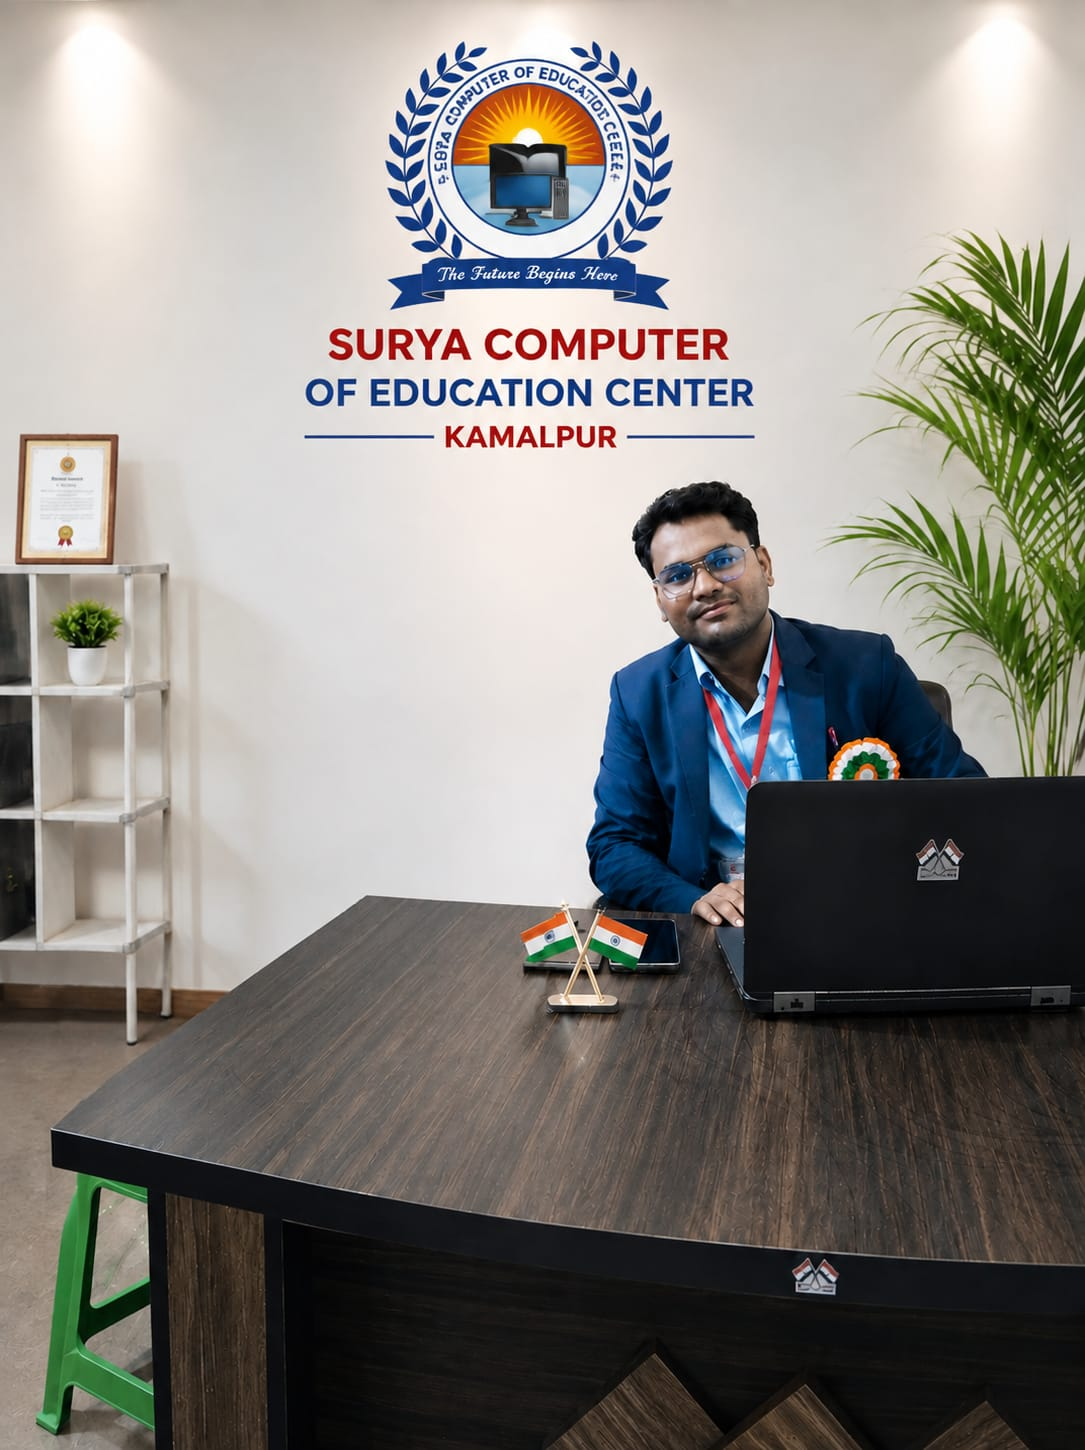
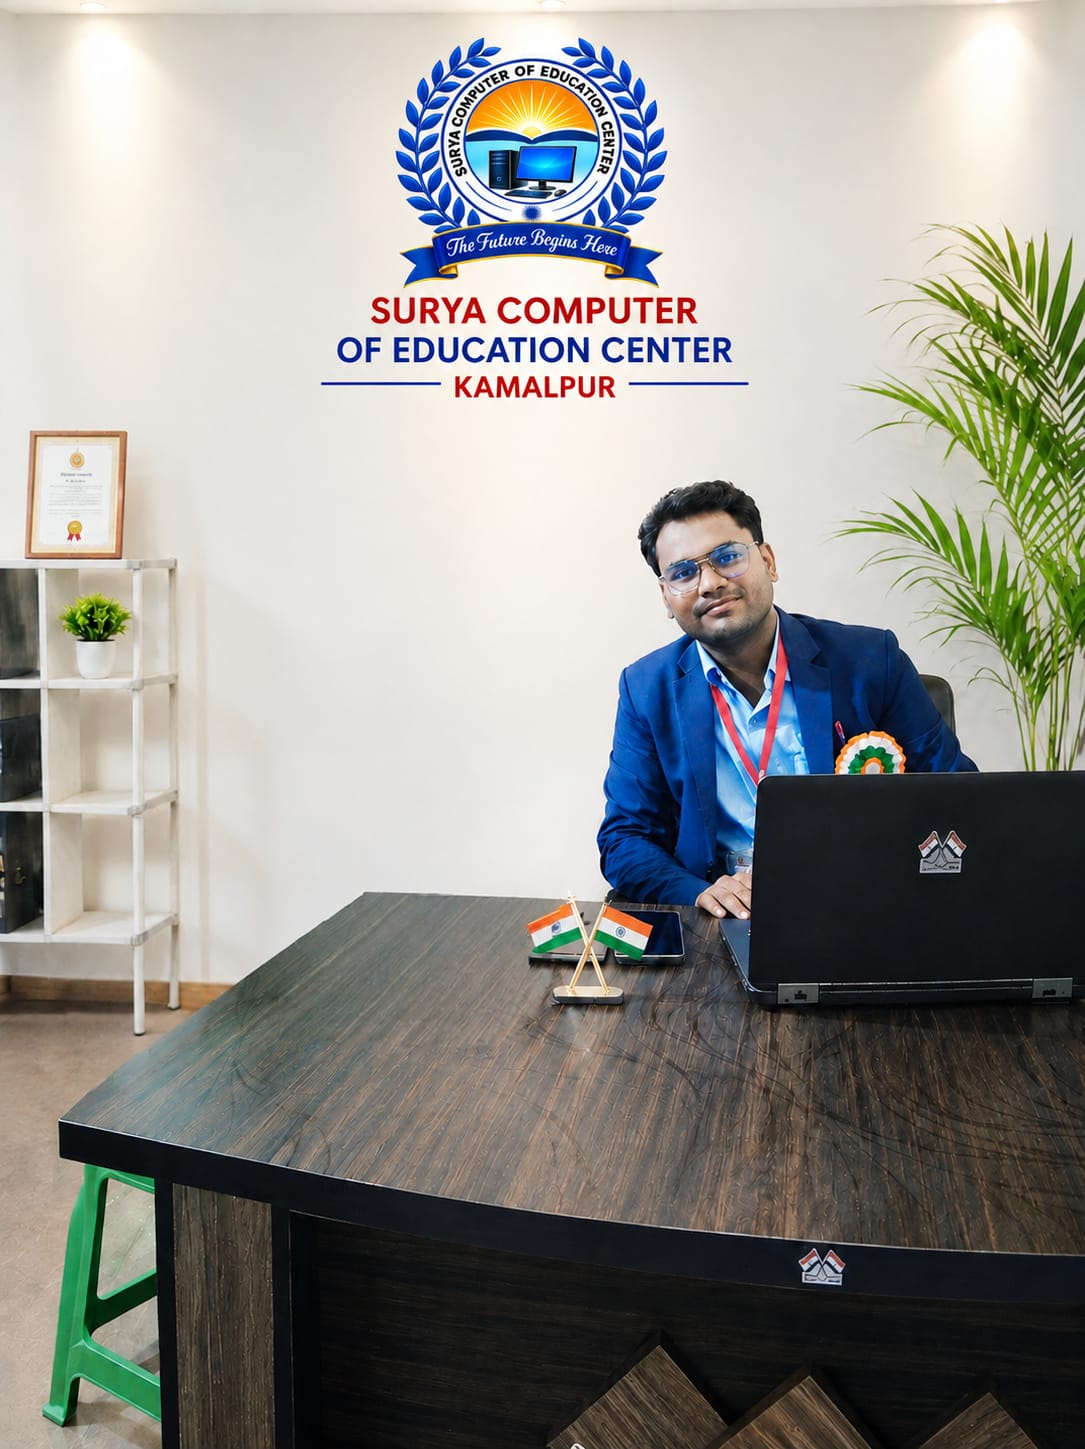
Update admin UI, project UI, and hero image

diff --git a/assets/css/project-ui.css b/assets/css/project-ui.css
@@ -54,3 +54,95 @@ footer a,.footer a{color:#fff!important}
 html[data-theme="dark"] .notice-box,html.dark-mode .notice-box,html.dark .notice-box,body.dark-mode .notice-box,body.dark .notice-box{background:#172033!important;color:#f8fafc!important}
 html[data-theme="dark"] .notice-box *,html.dark-mode .notice-box *,html.dark .notice-box *,body.dark-mode .notice-box *,body.dark .notice-box *{color:#f8fafc!important}
 html[data-theme="dark"] .top-bar a,html.dark-mode .top-bar a,html.dark .top-bar a,body.dark-mode .top-bar a,body.dark .top-bar a,html[data-theme="dark"] footer a,html.dark-mode footer a,html.dark footer a,body.dark-mode footer a,body.dark footer a{color:#e5e7eb!important}
+/* =========================================================
+   SURYA DIGITAL LIBRARY
+   RECTANGULAR RUNNING LIGHT BORDER
+   ========================================================= */
+
+.digital-library-nav {
+    position: relative;
+    z-index: 1;
+    display: inline-block;
+    font-weight: 700;
+    border: 1px solid rgba(255, 255, 255, 0.18);
+    border-radius: 8px;
+    padding: 8px 12px;
+    overflow: hidden;
+    isolation: isolate;
+}
+
+/* Very light permanent rectangular border/glow */
+.digital-library-nav {
+    box-shadow:
+        0 0 4px rgba(255, 255, 255, 0.10),
+        inset 0 0 4px rgba(255, 255, 255, 0.06);
+}
+
+/* The moving light */
+.digital-library-nav::before {
+    content: "";
+    position: absolute;
+    z-index: -1;
+
+    width: 35px;
+    height: 2px;
+
+    background: linear-gradient(
+        90deg,
+        transparent,
+        rgba(255, 255, 255, 0.95),
+        transparent
+    );
+
+    box-shadow:
+        0 0 5px rgba(255, 255, 255, 0.75),
+        0 0 10px rgba(255, 255, 255, 0.35);
+
+    offset-path: inset(0 round 8px);
+    offset-distance: 0%;
+    offset-rotate: auto;
+
+    animation: digitalLibraryLightRun 5s linear infinite;
+
+    pointer-events: none;
+}
+
+/* Keep the text completely still */
+.digital-library-nav::after {
+    content: "";
+    position: absolute;
+    inset: 0;
+    z-index: -2;
+    border-radius: 8px;
+    pointer-events: none;
+}
+
+@keyframes digitalLibraryLightRun {
+    to {
+        offset-distance: 100%;
+    }
+}
+
+
+/* =========================================================
+   MOBILE NAVIGATION
+   Result → Digital Library → Certificate
+   ========================================================= */
+
+@media (max-width: 768px) {
+
+    .navbar a:nth-child(1)  { order: 1; }
+    .navbar a:nth-child(2)  { order: 2; }
+    .navbar a:nth-child(3)  { order: 3; }
+    .navbar a:nth-child(4)  { order: 4; }
+    .navbar a:nth-child(6)  { order: 5; }
+    .navbar a:nth-child(5)  { order: 6; }
+    .navbar a:nth-child(7)  { order: 7; }
+    .navbar a:nth-child(8)  { order: 8; }
+    .navbar a:nth-child(9)  { order: 9; }
+    .navbar a:nth-child(10) { order: 10; }
+
+    .digital-library-nav {
+        padding: 7px 10px;
+    }
+}

diff --git a/admin.html b/admin.html
@@ -293,8 +293,7 @@ Security:
     <a href="admin-courses.html">Courses</a>
     <a href="admin-fees.html">Fees</a>
     <a href="admin-mock-tests.html">Mock Tests</a>
-<a href="admin-question-bank.html" class="admin-card">🧠 Question Bank<br><span>PDF/Text → Questions</span></a>
-                    <a href="admin-live-classes.html">Live Classes</a>
+    <a href="admin-live-classes.html">Live Classes</a>
     <a href="admin-contact-messages.html">Messages</a>
 
     <a href="student-login.html">
